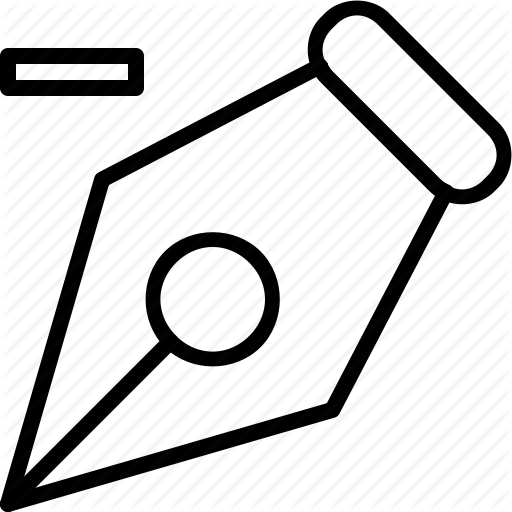
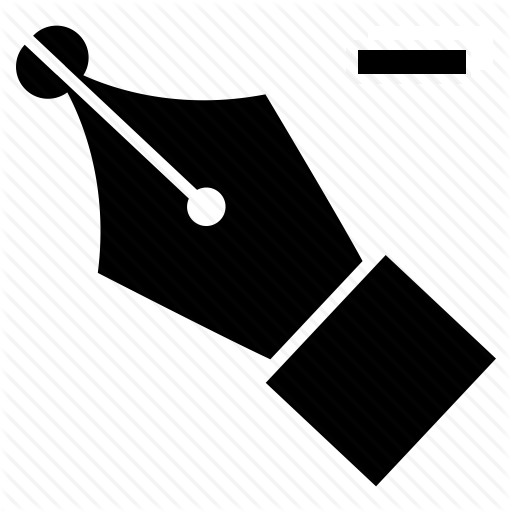
Issue #57: Path tool cursors modified

diff --git a/src/authoring/src/panes/tools/PathDragTool.java b/src/authoring/src/panes/tools/PathDragTool.java
@@ -17,8 +17,8 @@ public class PathDragTool extends PathModifyTool{
      * Establishes triggers for Paths/points so they drag and update
      */
 
-    public static final Image PEN = new Image(ToolbarPane.PEN_IMAGE);
-    public static final ImageCursor PEN_CURSOR = new ImageCursor(PEN, PEN.getWidth() / 2, PEN.getWidth()/2);
+    public static final Image GRAB = new Image(ToolbarPane.GRAB_IMAGE);
+    public static final ImageCursor GRAB_CURSOR = new ImageCursor(GRAB, GRAB.getWidth() / 2, GRAB.getWidth()/2);
 
     public PathDragTool(MapPane otherMap, Scene otherScene, String fileName, List<Path> paths){
         super(otherMap, otherScene, fileName, paths);
@@ -32,7 +32,7 @@ public class PathDragTool extends PathModifyTool{
 
     @Override
     public void onMapClick(MouseEvent event) {
-        var selected = checkPointSelected(event);
+        var selected = checkPointSelected(event.getX(), event.getY());
         if(selected){
             selectedPoint.dragSetup(event);
             updatePathLines(selectedPath);
@@ -40,7 +40,7 @@ public class PathDragTool extends PathModifyTool{
     }
 
     private void onMapDrag(MouseEvent event){
-        var selected = checkPointSelected(event);
+        var selected = checkPointSelected(event.getX(), event.getY());
         if(selected){
             selectedPoint.onDrag(event);
             updatePathLines(selectedPath);
@@ -54,7 +54,7 @@ public class PathDragTool extends PathModifyTool{
 
     @Override
     protected void enableTool() {
-        //scene.setCursor(PEN_CURSOR);
+        scene.setCursor(GRAB_CURSOR);
         //togglePathDraggable();
         setMouseActions();
     }

diff --git a/src/authoring/src/panes/tools/PathDeleteTool.java b/src/authoring/src/panes/tools/PathDeleteTool.java
@@ -12,8 +12,11 @@ import java.util.List;
 
 public class PathDeleteTool extends PathModifyTool{
 
-    public static final Image PEN = new Image(ToolbarPane.PEN_IMAGE);
-    public static final ImageCursor PEN_CURSOR = new ImageCursor(PEN, PEN.getWidth() / 2, PEN.getWidth()/2);
+    public static final Image DELETE = new Image(ToolbarPane.DELETE_IMAGE);
+    public static final ImageCursor DELETE_CURSOR = new ImageCursor(DELETE, DELETE.getWidth() / 2, DELETE.getWidth()/2);
+
+    public static final double X_ADJUSTMENT = -10;
+    public static final double Y_ADJUSTMENT = -10;
 
     public PathDeleteTool(MapPane otherMap, Scene otherScene, String fileName, List<Path> paths){
         super(otherMap, otherScene, fileName, paths);
@@ -25,7 +28,7 @@ public class PathDeleteTool extends PathModifyTool{
 
     @Override
     public void onMapClick(MouseEvent event) {
-        var selected = checkPointSelected(event);
+        var selected = checkPointSelected(event.getX() + X_ADJUSTMENT, event.getY() + Y_ADJUSTMENT);
         if(selected){
             selectedPath.removePoint(selectedPoint);
             map.removeShape(selectedPoint.getPoint());
@@ -35,6 +38,7 @@ public class PathDeleteTool extends PathModifyTool{
 
     @Override
     protected void enableTool() {
+        scene.setCursor(DELETE_CURSOR);
         setMouseActions();
     }
 

diff --git a/src/authoring/src/panes/tools/PathModifyTool.java b/src/authoring/src/panes/tools/PathModifyTool.java
@@ -31,11 +31,11 @@ public abstract class PathModifyTool extends PathTool {
         pathOptions = paths;
     }
 
-    protected boolean checkPointSelected(MouseEvent event){
+    protected boolean checkPointSelected(double checkX, double checkY){
         var select = false;
         for(Path path: pathOptions){
             for(Circle point: path.getPoints()){
-                if(point.contains(new Point2D(event.getX(), event.getY()))){
+                if(point.contains(new Point2D(checkX, checkY))){
                     selectedPoint = path.getPoint(point);
                     selectedPath = path;
                     select = true;

diff --git a/src/authoring/src/panes/tools/ToolbarPane.java b/src/authoring/src/panes/tools/ToolbarPane.java
@@ -47,7 +47,7 @@ public class ToolbarPane extends AuthoringPane {
     public static final String STYLE = "toolbar-pane.css";
     public static final String LASSO_IMAGE = "Lasso.png";
     public static final String PEN_IMAGE = "Pen.png";
-    public static final String GRAB_IMAGE = "GrabIcon.jpg";
+    public static final String GRAB_IMAGE = "GrabIcon.png";
     public static final String DELETE_IMAGE = "DeletePen.png";
     public static final List<String> MENU_OPTIONS = List.of("File", "Edit", "View");
 

diff --git a/src/authoring/src/panes/tools/PathPenTool.java b/src/authoring/src/panes/tools/PathPenTool.java
@@ -15,7 +15,7 @@ public class PathPenTool extends PathTool{
     public static final Image PEN = new Image(ToolbarPane.PEN_IMAGE);
     public static final ImageCursor PEN_CURSOR = new ImageCursor(PEN, PEN.getWidth() / 2, PEN.getWidth()/2);
     public static final double X_ADJUSTMENT = -10;
-    public static final double Y_ADJUSTMENT = 10;
+    public static final double Y_ADJUSTMENT = -10;
 
     private Path currentPath;
 
